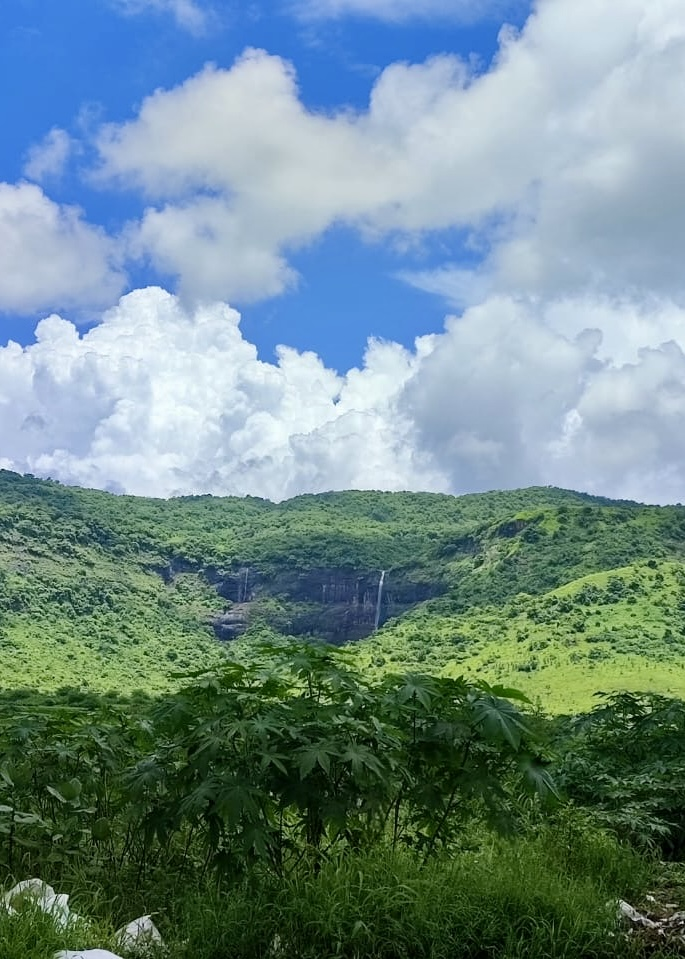
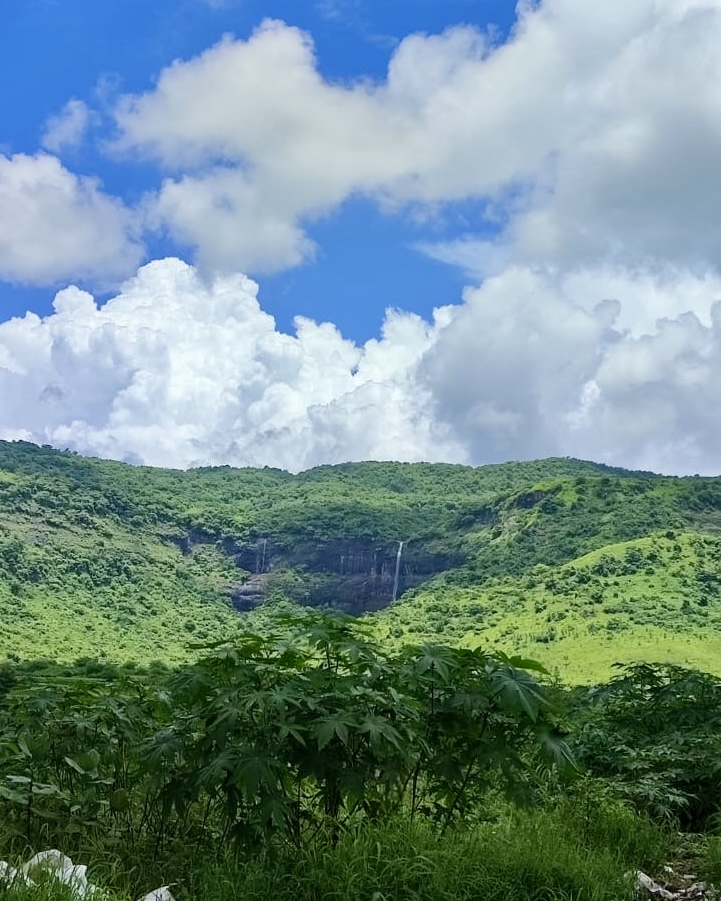
captitalize

diff --git a/_pages/outdoors.md b/_pages/outdoors.md
@@ -63,10 +63,13 @@ Arizona's vast red rock formations, dramatic canyons, and endless desert skies f
 There is something magical about the greens of India. The Western Ghats in Maharashtra are lush, misty, and breathtaking. Having grown up in India, these landscapes feel like home in the most grounding way.
 
 <div class="row mt-3">
-  <div class="col-sm-6">
+  <div class="col-sm-4">
     {% include figure.liquid path="assets/img/India1.jpeg" class="img-fluid rounded" zoomable=false %}
   </div>
-  <div class="col-sm-6">
+  <div class="col-sm-4">
     {% include figure.liquid path="assets/img/India2.jpeg" class="img-fluid rounded" zoomable=false %}
+  </div>
+  <div class="col-sm-4">
+    {% include figure.liquid path="assets/img/India3.jpeg" class="img-fluid rounded" zoomable=false %}
   </div>
 </div>